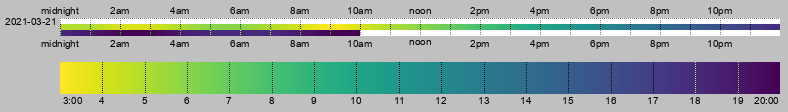
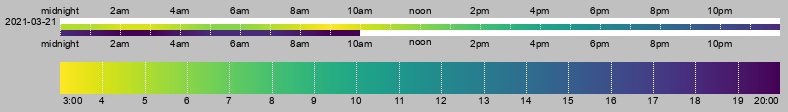
got rid of variable color grid lines (they were distracting and kinda slow). also some minor refactoring

Changed region(s): [[0.0914, 0.1607, 0.9746, 0.1875]]

diff --git a/render.py b/render.py
@@ -23,7 +23,7 @@ trend_colormap = mpl.cm.get_cmap("viridis").reversed()
 cohesion_colormap = mpl.cm.get_cmap("inferno")
 
 background_color = (192, 192, 192)
-grid_line_color = (192, 96, 96)
+grid_line_color = (255, 255, 255)
 
 seconds_per_day = 24 * 60 * 60
 
@@ -97,14 +97,14 @@ def main(outfolder, infiles):  # pragma: no cover
         print()
         print(name)
         trend_segments[days] = calc_trend_segment_values(split_segments(make_trend_segments(events, interval)))
-        draw_chart_frame(*draw_trend_chart(trend_segments[days], interval, trend_lut)).save(f"{outfolder}/trend_{name}.png")
+        draw_chart_frame(*draw_trend_chart(trend_segments[days], interval, trend_lut), gridcolor=grid_line_color).save(f"{outfolder}/trend_{name}.png")
 
         print()
         cohesion_segments[days] = calc_trend_segment_values(split_segments(make_cohesion_segments(trend_segments[1], interval)), interval)
-        draw_chart_frame(*draw_trend_chart(cohesion_segments[days], interval, cohesion_lut, normalized=True, extra_ignore_interval=seconds_per_day), percentage=True).save(f"{outfolder}/cohesion_{name}.png")
+        draw_chart_frame(*draw_trend_chart(cohesion_segments[days], interval, cohesion_lut, normalized=True, extra_ignore_interval=seconds_per_day), gridcolor=grid_line_color, percentage=True).save(f"{outfolder}/cohesion_{name}.png")
 
     print()
-    figs = draw_plots(events, off_segments, on_segments, trend_segments, cohesion_segments)
+    figs = draw_plots(off_segments, on_segments, trend_segments, cohesion_segments)
     for i,fig in enumerate(figs):
         fig.savefig(f"{outfolder}/plots{i+1}.png")
         fig.savefig(f"{outfolder}/plots{i+1}.pdf")
@@ -150,7 +150,7 @@ def make_segments(events):
         if state == OnOff.on:
             if e.state == OnOff.on:
                 if segment_start:  #pragma: no cover
-                    print("warning: state transition from on to on:", segment_start.time, e.time)
+                    print("warning: state transition from on to on:", segment_start, e)
             elif e.state == OnOff.off:
                 if t1:
                     on_segments.append(Segment(t1, t2))
@@ -158,7 +158,7 @@ def make_segments(events):
                 segment_start = e
                 state = OnOff.off
             else:  #pragma: no cover
-                raise ValueError("invalid event state '{}'".format(e["state"]))
+                raise ValueError("invalid event state '{}'".format(e.state))
         elif state == OnOff.off:
             t1 = segment_start.time
             t2 = e.time
@@ -169,7 +169,7 @@ def make_segments(events):
                 segment_start = e
                 state = OnOff.on
             elif e.state == OnOff.off:  #pragma: no cover
-                print("warning: state transition from off to off", t1, t2)
+                print("warning: state transition from off to off", segment_start, e)
             else:  #pragma: no cover
                 raise ValueError("invalid event state '{}'".format(e.state))
         else:  #pragma: no cover
@@ -453,7 +453,7 @@ def draw_gradient(draw, x1, y1, x2, y2, start_value, end_value, lut):
             draw.rectangle((x, y1, x, y2), fill=color, outline=None, width=0)
 
 
-def draw_chart_frame(chart_image, day_height, day_count, start_time, lut=None, key_min=None, key_max=None, *, percentage=False):
+def draw_chart_frame(chart_image, day_height, day_count, start_time, lut=None, key_min=None, key_max=None, *, gridcolor=(128,128,128), percentage=False):
     print("drawing chart frame...")
 
     first_date = time_to_date(start_time)
@@ -462,17 +462,11 @@ def draw_chart_frame(chart_image, day_height, day_count, start_time, lut=None, k
 
     chart_draw = ImageDraw.Draw(chart_image)
 
-    grid_color_lookup = {} # matplotlib colorspace conversion is slow, so we're only doing each conversion once
-
     # hour grid
     for i in range(24):
         x = i * 60 * 60 * chart_image.width / seconds_per_day
         for y in range(0, day_height * day_count, 2):
-            c = chart_image.getpixel((x, y))
-            if c not in grid_color_lookup:
-                grid_color_lookup[c] = grid_color(c)
-            color = grid_color_lookup[c]
-            chart_draw.point((x, y), color)
+            chart_draw.point((x, y), gridcolor)
 
     # week grid
     max_date_textlength = 0
@@ -482,14 +476,7 @@ def draw_chart_frame(chart_image, day_height, day_count, start_time, lut=None, k
 
         y = i * day_height
         for x in range(0, chart_image.width, 2):
-            # don't invert twice (handle grid line intersections)
-            if x % (60 * 60 * chart_image.width / seconds_per_day) == 0:
-                continue
-            c = chart_image.getpixel((x, y))
-            if c not in grid_color_lookup:
-                grid_color_lookup[c] = grid_color(c)
-            color = grid_color_lookup[c]
-            chart_draw.point((x, y), color)
+            chart_draw.point((x, y), gridcolor)
 
     text_vbox = 18
     text_outer_hpad = 8
@@ -570,11 +557,7 @@ def draw_chart_frame(chart_image, day_height, day_count, start_time, lut=None, k
                 break
 
             for y in range(y1, y2, 2):
-                c = im.getpixel((x, y))
-                if c not in grid_color_lookup:
-                    grid_color_lookup[c] = grid_color(c)
-                color = grid_color_lookup[c]
-                draw.point((x, y), color)
+                draw.point((x, y), gridcolor)
             
             if percentage:
                 marker_text = f"{(i + first_marker) * scale_range}%"
@@ -584,22 +567,6 @@ def draw_chart_frame(chart_image, day_height, day_count, start_time, lut=None, k
             draw.text((x, y2 + text_inner_vpad), marker_text, (0,0,0), font, "mt")
 
     return im
-
-
-def grid_color(c):
-    # figure out what color a grid line should be based
-    # on what it's going on top of for good contrast
-    h, s, v = mpl.colors.rgb_to_hsv([i/255 for i in c])
-
-    h += 0.5
-    if h > 1:
-        h -= 1
-
-    v += 0.5
-    if v > 1:
-        v -= 1
-
-    return tuple(int(round(i*255)) for i in mpl.colors.hsv_to_rgb((h, s, v)))
 
 
 def format_hours(t):
@@ -612,28 +579,33 @@ def format_hours(t):
     return "{:2.0f}:{:02.0f}".format(hours, minutes)
 
 
-def draw_plots(events, off_segments, on_segments, trend_segments, cohesion_segments):
+def draw_plots(off_segments, on_segments, trend_segments, cohesion_segments):
     print("drawing plots...")
+    fig1 = draw_plots_page1(off_segments, on_segments, trend_segments)
+    fig2 = draw_plots_page2(trend_segments, cohesion_segments)
+    return (fig1, fig2)
 
+
+def draw_plots_page1(off_segments, on_segments, trend_segments):
     advanced_plots = True
 
-    # page 1
     w = 8.5
     h = 11
 
     if advanced_plots:
-        fig1, axs = plt.subplots(3, 2, figsize=(w,h), tight_layout=True)
+        fig, axs = plt.subplots(3, 2, figsize=(w,h), tight_layout=True)
     else:
-        fig1, axs = plt.subplots(2, 1, figsize=(w,h), tight_layout={"rect":(1.25/w, 0.6/h, 7.25/w, 10.5/h), "h_pad":3}, squeeze=False)
+        fig, axs = plt.subplots(2, 1, figsize=(w,h), tight_layout={"rect":(1.25/w, 0.6/h, 7.25/w, 10.5/h), "h_pad":3}, squeeze=False)
 
     off_segment_lengths = segment_length_hours(off_segments)
     on_segment_lengths = segment_length_hours(on_segments)
 
+    ax = axs[0,0]
     bins = [i/2 for i in range(0, math.ceil(max(off_segment_lengths) * 2) + 1)] # bins in 30 minute intervals
-    axs[0,0].hist(off_segment_lengths, weights=off_segment_lengths, bins=bins, density=True)
-    axs[0,0].set_title("Weighted Off Segments")
-    axs[0,0].xaxis.set_major_locator(matplotlib.ticker.MultipleLocator(1))
-    axs[0,0].set_xlabel("hours")
+    ax.hist(off_segment_lengths, weights=off_segment_lengths, bins=bins, density=True)
+    ax.set_title("Weighted Off Segments")
+    ax.xaxis.set_major_locator(matplotlib.ticker.MultipleLocator(1))
+    ax.set_xlabel("hours")
 
     if advanced_plots:
         ax = axs[0,1]
@@ -671,52 +643,60 @@ def draw_plots(events, off_segments, on_segments, trend_segments, cohesion_segme
 
         scattersize = 8
 
-        axs[1,0].scatter(x1, y1, s=scattersize, c=c1)
-        axs[1,0].set_title("Off vs Next On Segment")
-        axs[1,0].xaxis.set_major_locator(matplotlib.ticker.MultipleLocator(1))
-        axs[1,0].yaxis.set_major_locator(matplotlib.ticker.MultipleLocator(4))
-        axs[1,0].set_xlabel("Off Segment Length")
-        axs[1,0].set_ylabel("Next On Segment Length")
-        axs[1,0].set_xlim(axs[0,0].get_xlim())
+        ax = axs[1,0]
+        ax.scatter(x1, y1, s=scattersize, c=c1)
+        ax.set_title("Off vs Next On Segment")
+        ax.xaxis.set_major_locator(matplotlib.ticker.MultipleLocator(1))
+        ax.yaxis.set_major_locator(matplotlib.ticker.MultipleLocator(4))
+        ax.set_xlabel("Off Segment Length")
+        ax.set_ylabel("Next On Segment Length")
+        ax.set_xlim(axs[0,0].get_xlim())
 
-        axs[1,1].scatter(x2, y2, s=scattersize, c=c2)
-        axs[1,1].set_title("On vs Next Off Segment")
-        axs[1,1].xaxis.set_major_locator(matplotlib.ticker.MultipleLocator(4))
-        axs[1,1].yaxis.set_major_locator(matplotlib.ticker.MultipleLocator(1))
-        axs[1,1].set_xlabel("On Segment Length")
-        axs[1,1].set_ylabel("Next Off Segment Length")
-        axs[1,1].set_xlim(axs[0,1].get_xlim())
+        ax = axs[1,1]
+        ax.scatter(x2, y2, s=scattersize, c=c2)
+        ax.set_title("On vs Next Off Segment")
+        ax.xaxis.set_major_locator(matplotlib.ticker.MultipleLocator(4))
+        ax.yaxis.set_major_locator(matplotlib.ticker.MultipleLocator(1))
+        ax.set_xlabel("On Segment Length")
+        ax.set_ylabel("Next Off Segment Length")
+        ax.set_xlim(axs[0,1].get_xlim())
 
         trend_values = {}
         for s in trend_segments[1]:
             trend_values[time.mktime(s.start)] = s.start_value
 
+        ax = axs[2,0]
         x3 = [trend_values[time.mktime(i.start)]/(60*60) for i in off_segments]
         c3 = [time.mktime(i.start) for i in off_segments]
-        axs[2,0].scatter(x3, off_segment_lengths, s=scattersize, c=c3)
-        axs[2,0].set_title("Previous 24 Hours vs Off Segment Length")
-        axs[2,0].xaxis.set_major_locator(matplotlib.ticker.MultipleLocator(4))
-        axs[2,0].yaxis.set_major_locator(matplotlib.ticker.MultipleLocator(1))
-        axs[2,0].set_xlabel("Time Off in the Last Day")
-        axs[2,0].set_ylabel("Subsequent Off Segment Length")
+        ax.scatter(x3, off_segment_lengths, s=scattersize, c=c3)
+        ax.set_title("Previous 24 Hours vs Off Segment Length")
+        ax.xaxis.set_major_locator(matplotlib.ticker.MultipleLocator(4))
+        ax.yaxis.set_major_locator(matplotlib.ticker.MultipleLocator(1))
+        ax.set_xlabel("Time Off in the Last Day")
+        ax.set_ylabel("Subsequent Off Segment Length")
 
+        ax = axs[2,1]
         x4 = [trend_values[time.mktime(i.start)]/(60*60) for i in on_segments]
         c4 = [time.mktime(i.start) for i in on_segments]
-        axs[2,1].scatter(x4, on_segment_lengths, s=scattersize, c=c4)
-        axs[2,1].set_title("Previous 24 Hours vs On Segment Length")
-        axs[2,1].xaxis.set_major_locator(matplotlib.ticker.MultipleLocator(4))
-        axs[2,1].yaxis.set_major_locator(matplotlib.ticker.MultipleLocator(4))
-        axs[2,1].set_xlabel("Time Off in the Last Day")
-        axs[2,1].set_ylabel("Subsequent On Segment Length")
+        ax.scatter(x4, on_segment_lengths, s=scattersize, c=c4)
+        ax.set_title("Previous 24 Hours vs On Segment Length")
+        ax.xaxis.set_major_locator(matplotlib.ticker.MultipleLocator(4))
+        ax.yaxis.set_major_locator(matplotlib.ticker.MultipleLocator(4))
+        ax.set_xlabel("Time Off in the Last Day")
+        ax.set_ylabel("Subsequent On Segment Length")
     
-    # page 2
+    return fig
+
+
+def draw_plots_page2(trend_segments, cohesion_segments):
     w = 11
     h = 8.5
 
-    fig2, axs = plt.subplots(2, 1, figsize=(w,h), tight_layout=True)
+    fig, axs = plt.subplots(2, 1, figsize=(w,h), tight_layout=True)
 
     full_range = False
 
+    ax = axs[0]
     x5 = {}
     y5 = {}
     for k in trend_segments:
@@ -728,16 +708,17 @@ def draw_plots(events, off_segments, on_segments, trend_segments, cohesion_segme
             x5[k].append(datetime.datetime.fromtimestamp(time.mktime(s.start)))
             y5[k].append(s.start_value / (k * 60 * 60))
         linewidth = 0.1 if k == 1 else 1
-        axs[0].plot(x5[k], y5[k], linewidth=linewidth)
-    axs[0].set_title("Trend")
-    axs[0].set_xlim(x5[1][0], x5[1][-1])
+        ax.plot(x5[k], y5[k], linewidth=linewidth)
+    ax.set_title("Trend")
+    ax.set_xlim(x5[1][0], x5[1][-1])
     if full_range or not y5[7]:
-        axs[0].set_ylim(0, 24)
+        ax.set_ylim(0, 24)
     else:
-        axs[0].set_ylim(math.floor(min(y5[7])), math.ceil(max(y5[7])))
-    axs[0].xaxis.set_minor_locator(matplotlib.dates.MonthLocator())
-    axs[0].yaxis.set_major_locator(matplotlib.ticker.MultipleLocator(4 if full_range else 1))
+        ax.set_ylim(math.floor(min(y5[7])), math.ceil(max(y5[7])))
+    ax.xaxis.set_minor_locator(matplotlib.dates.MonthLocator())
+    ax.yaxis.set_major_locator(matplotlib.ticker.MultipleLocator(4 if full_range else 1))
     
+    ax = axs[1]
     x6 = {}
     y6  ={}
     for k in cohesion_segments:
@@ -749,18 +730,18 @@ def draw_plots(events, off_segments, on_segments, trend_segments, cohesion_segme
             x6[k].append(datetime.datetime.fromtimestamp(time.mktime(s.start)))
             y6[k].append((s.start_value * 100) / (k * seconds_per_day))
         linewidth = 0.2 if k == 1 else 1
-        axs[1].plot(x6[k], y6[k], linewidth=linewidth)
-    axs[1].set_title("Cohesion")
-    axs[1].set_xlim(x6[1][0], x6[1][-1])
+        ax.plot(x6[k], y6[k], linewidth=linewidth)
+    ax.set_title("Cohesion")
+    ax.set_xlim(x6[1][0], x6[1][-1])
     if full_range or not y6[7]:
-        axs[1].set_ylim(0, 100)
+        ax.set_ylim(0, 100)
     else:
-        axs[1].set_ylim(min(y6[7]), max(y6[7]))
-    axs[1].xaxis.set_minor_locator(matplotlib.dates.MonthLocator())
-    axs[1].yaxis.set_major_locator(matplotlib.ticker.MultipleLocator(10))
-    axs[1].yaxis.set_major_formatter(matplotlib.ticker.PercentFormatter())
+        ax.set_ylim(min(y6[7]), max(y6[7]))
+    ax.xaxis.set_minor_locator(matplotlib.dates.MonthLocator())
+    ax.yaxis.set_major_locator(matplotlib.ticker.MultipleLocator(10))
+    ax.yaxis.set_major_formatter(matplotlib.ticker.PercentFormatter())
 
-    return (fig1, fig2)
+    return fig
 
 
 def segment_length_hours(segments):

diff --git a/test_render.py b/test_render.py
@@ -196,7 +196,7 @@ def test_draw_trend_chart_and_frame(trend_segments_with_values, trend_lut, tmp_p
     assert key_max == 20/24
 
     fname = tmp_path / "test_draw_trend_chart_and_frame.png"
-    draw_chart_frame(*chart_params).save(fname)
+    draw_chart_frame(*chart_params, gridcolor=grid_line_color).save(fname)
 
     assert filecmp.cmp(fname, "test_data/correct_output/trend_daily.png", False)
 
@@ -213,7 +213,7 @@ def test_draw_cohesion_chart_and_frame(cohesion_segments_with_values, cohesion_l
     assert key_max == 4/24
 
     fname = tmp_path / "test_draw_cohesion_chart_and_frame.png"
-    draw_chart_frame(*chart_params, percentage=True).save(fname)
+    draw_chart_frame(*chart_params, gridcolor=grid_line_color, percentage=True).save(fname)
 
     assert filecmp.cmp(fname, "test_data/correct_output/cohesion_daily.png", False)
 
